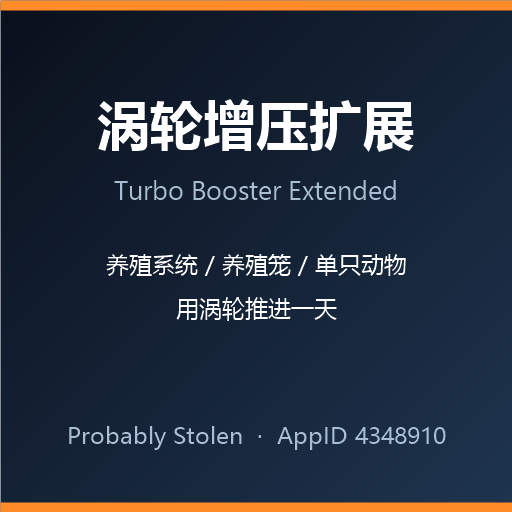
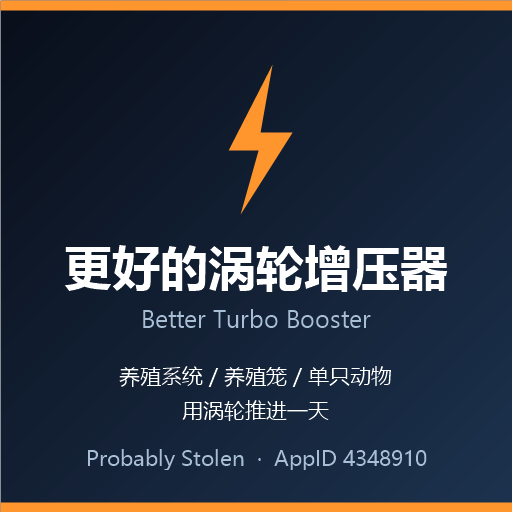
feat: rename to 更好的涡轮增压器 (Better Turbo Booster)

diff --git a/CHANGELOG.md b/CHANGELOG.md
@@ -2,6 +2,13 @@
 
 本项目遵循 [语义化版本](https://semver.org/lang/zh-CN/)。
 
+## [1.1.2] - 2026-11-12
+
+### 变更
+
+- 模组更名为**「更好的涡轮增压器」**（Better Turbo Booster）
+- 工坊预览图按新名字重绘
+
 ## [1.1.1] - 2026-11-12
 
 ### 修正

diff --git a/README.md b/README.md
@@ -1,4 +1,4 @@
-# 涡轮增压扩展
+# 更好的涡轮增压器
 
 《深空当铺：可能是偷的》模组：让**涡轮增压器**（基础 / 高级 / 超科技）可以对养殖相关目标使用，**推进一天**。
 

diff --git a/docs/workshop-description.en.md b/docs/workshop-description.en.md
@@ -1,4 +1,4 @@
-[h1]Turbo Booster Extended[/h1]
+[h1]Better Turbo Booster[/h1]
 
 Makes the [b]Turbo Booster[/b] (basic / advanced / hypertech) usable on husbandry targets, advancing them by [b]one day[/b].
 

diff --git a/docs/workshop-description.zh.md b/docs/workshop-description.zh.md
@@ -1,4 +1,4 @@
-[h1]涡轮增压扩展[/h1]
+[h1]更好的涡轮增压器[/h1]
 
 让[b]涡轮增压器[/b]（基础 / 高级 / 超科技）可以对养殖相关目标使用，[b]推进一天[/b]。
 
